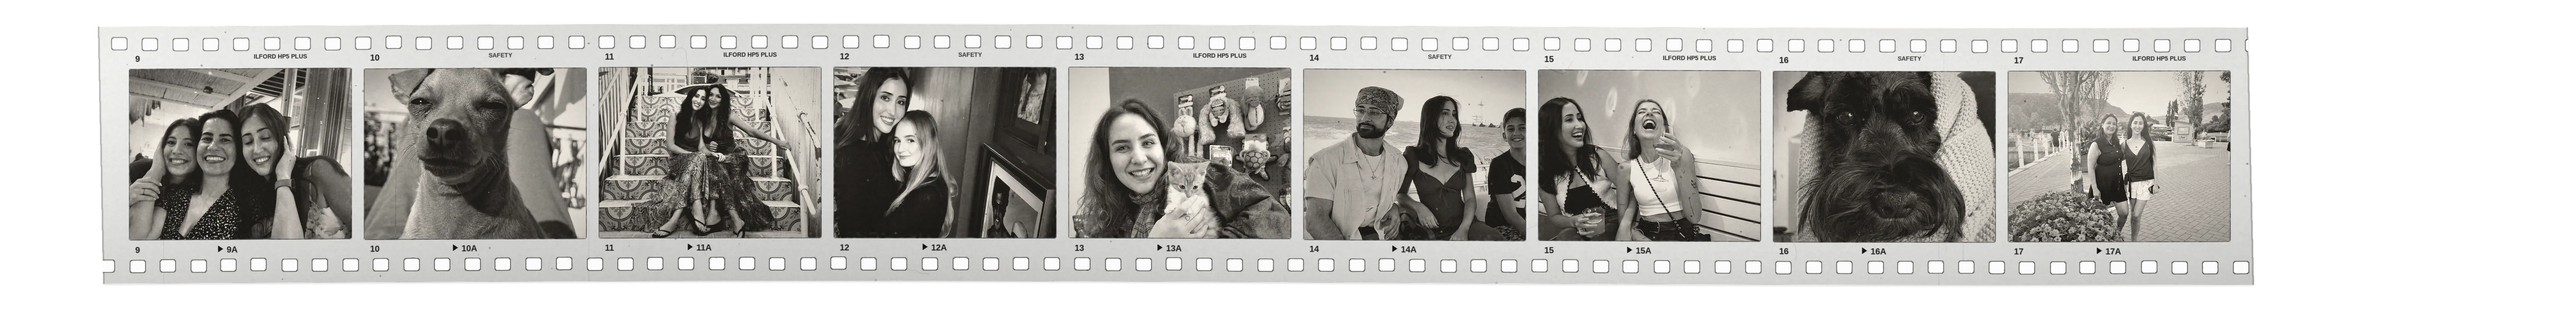
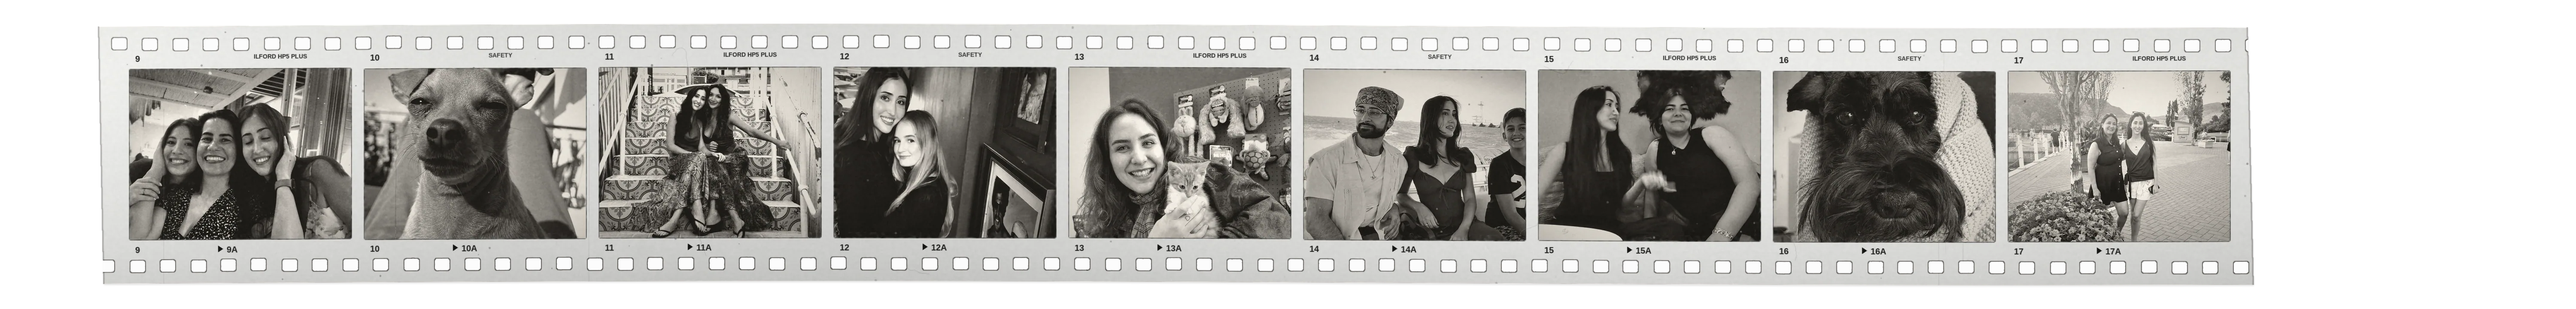
Swap frames 15 and 26; move 'the ones i love' to the left
Claude-Session: https://claude.ai/code/session_019cHY5kFv81n3dVZ9DcXyGk

Changed region(s): [[0.5922, 0.2136, 0.6857, 0.7933]]

diff --git a/assets/inner.css b/assets/inner.css
@@ -95,7 +95,7 @@ header a[aria-current]{background:none}
 #people{--rw:min(267vw,calc(2.75*(100svh - 6rem)));margin:0 6vw;border-top:1px solid var(--line)}
 .vh{position:absolute;width:1px;height:1px;overflow:hidden;clip:rect(0 0 0 0);white-space:nowrap}
 .pstage{padding-top:9vh;margin:0 -6vw;position:relative;background:var(--paper)}
-.slabel{position:absolute;right:6vw;top:5vh;display:flex;flex-direction:column;align-items:flex-end;gap:.3rem;color:var(--mu);z-index:1}.slabel .hw{font:400 clamp(1.5rem,2.2vw,2.3rem)/1 'Kristi',cursive;color:var(--ink);letter-spacing:0;text-transform:none;transform:rotate(-3deg)}
+.slabel{position:absolute;left:6vw;top:5vh;display:flex;flex-direction:column;align-items:flex-start;gap:.3rem;color:var(--mu);z-index:1}.slabel .hw{font:400 clamp(1.5rem,2.2vw,2.3rem)/1 'Kristi',cursive;color:var(--ink);letter-spacing:0;text-transform:none;transform:rotate(-3deg)}
 .pstage .sh{margin:0 6vw;border-top:0;padding:5vh 0 3vh}.pstage .sh h2{font-size:clamp(2rem,3.9vw,4.3rem)}
 .csheet{padding:0 0 4vw;display:flex;flex-direction:column;overflow-x:auto;scrollbar-width:none}.csheet::-webkit-scrollbar{display:none}
 .rw{position:relative;flex:none}.rw+.rw{margin-top:calc(var(--rw)*-.0083)}
@@ -152,7 +152,7 @@ header{position:absolute;color:inherit;mix-blend-mode:normal;padding:1.4rem 16px
 .intro{width:auto;margin:0 0 2rem}.pf{height:auto;width:100%;aspect-ratio:var(--ar);margin:0 0 2.4rem}.pf .no{display:none}.pf img{transform:none}.hud,.bar{display:none}.prail{height:auto!important}
 .loves{grid-template-columns:1fr;padding:0 16px 5rem}.plates{display:grid;grid-template-columns:1fr 1fr 1fr;gap:10px;margin-bottom:2.4rem}.plates figure,.plates figure+figure,.plates figure:nth-child(n){width:auto;margin:0}
 .loves-list{columns:1}.sh{margin:0 16px}
-#people{--rw:min(453vw,calc(3.2*(100svh - 6.5rem)));margin:0 16px}.pstage{margin:0 -16px}.slabel{right:16px;top:3rem}.pstage .sh{margin:0 16px;padding:3rem 0 1.4rem}#people.live .pstage .sh{padding:0 0 1rem}
+#people{--rw:min(453vw,calc(3.2*(100svh - 6.5rem)));margin:0 16px}.pstage{margin:0 -16px}.slabel{left:16px;top:3rem}.pstage .sh{margin:0 16px;padding:3rem 0 1.4rem}#people.live .pstage .sh{padding:0 0 1rem}
 .ranks{grid-template-columns:1fr;padding:0 16px 4rem}.ranks .plates{position:static;grid-template-columns:1fr 1fr;max-width:20rem}.ranks .plates figure,.ranks .plates figure+figure{width:auto;margin:0}.ranks .plates figure+figure{align-self:end}.plot{grid-column:1;margin-top:5rem}
 .hello{padding-top:10vh}.hello .hi{font-size:4.8rem}.hello .links{gap:1.4rem}.colophon{padding:4rem 16px 2rem}
 }
